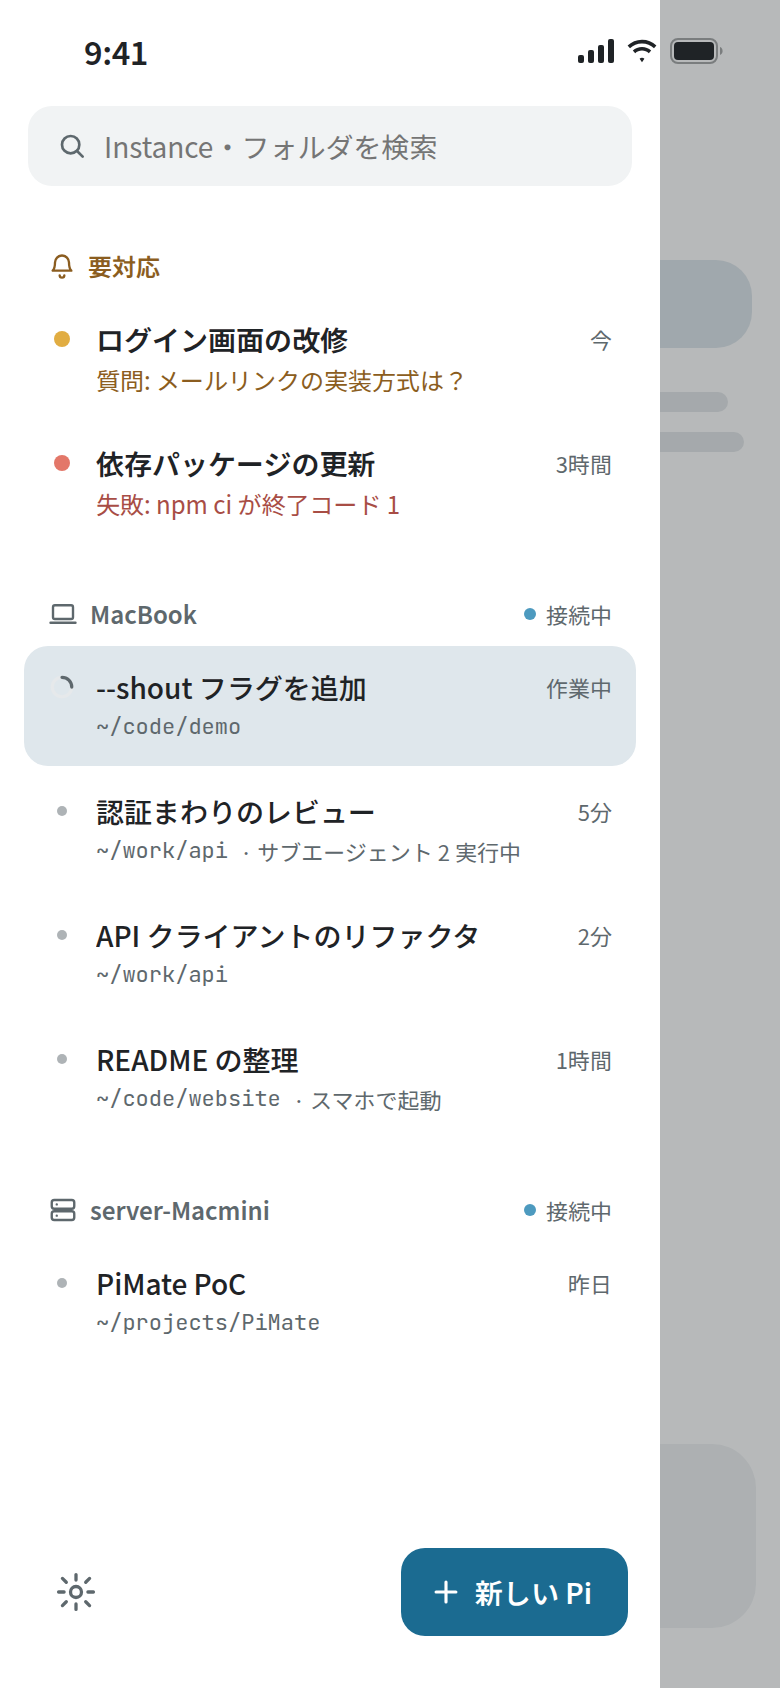
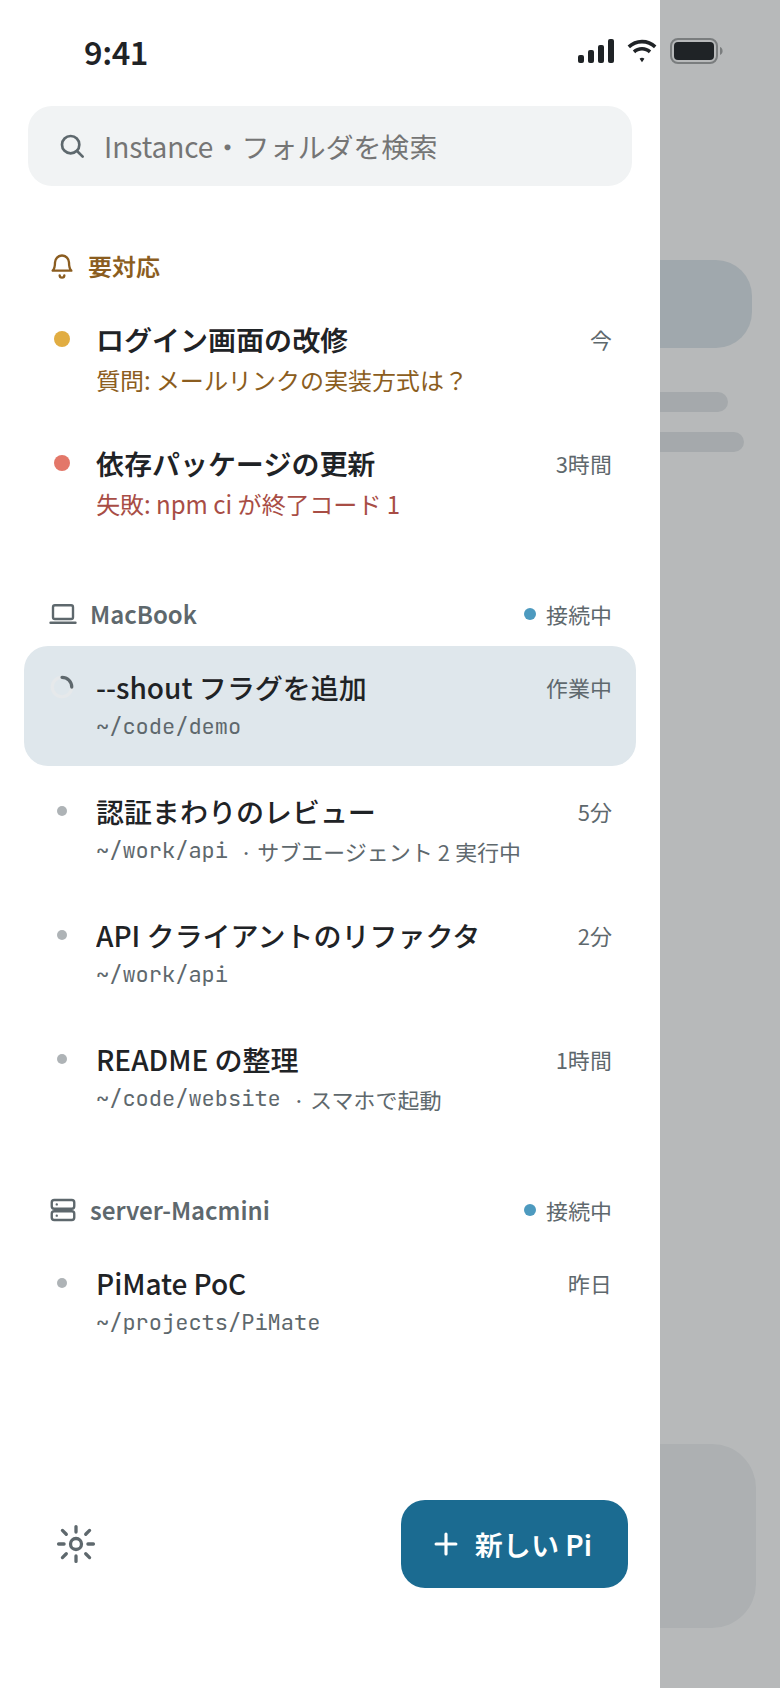
主ボタン・1行の入力欄・コマンド表示をカプセル型に戻し、ドロワー最下段を少し上げる
- radii.control を 9999（カプセル）に戻す。0.1.13 で角丸 12px にした要素がすべて戻る
- ドロワーの下余白を insets.bottom + 16 にして、最下段のボタンをジェスチャーバーから離す
- SPEC・apps/mobile/README の形のルールを更新（モックは別コミット）

Changed region(s): [[0.4923, 0.8626, 0.8308, 0.9858], [0.0615, 0.8934, 0.1231, 0.955]]

diff --git a/docs/design/html/Drawer.html b/docs/design/html/Drawer.html
@@ -27,7 +27,7 @@ html,body{margin:0;overflow:hidden}
     <div style="position: absolute; inset: 0; background: rgba(16, 24, 28, 0.30)"></div>
   </div>
 
-  <nav aria-label="Pi Instance" style="position: absolute; top: 0; left: 0; width: 330px; height: 844px; box-sizing: border-box; padding: 47px 12px 26px; display: flex; flex-direction: column; background: #FFFFFF">
+  <nav aria-label="Pi Instance" style="position: absolute; top: 0; left: 0; width: 330px; height: 844px; box-sizing: border-box; padding: 47px 12px 50px; display: flex; flex-direction: column; background: #FFFFFF">
     <div style="display: flex; align-items: center; gap: 6px; padding: 6px 2px 0">
       <label style="flex: 1; min-width: 0; height: 40px; display: flex; align-items: center; gap: 8px; padding: 0 14px; border-radius: 12px; background: #F1F3F4; color: #5E686D">
         <svg width="16" height="16" viewBox="0 0 24 24" aria-hidden="true" style="flex-shrink: 0; fill: none; stroke: currentColor; stroke-width: 2; stroke-linecap: round"><circle cx="11" cy="11" r="6.5"></circle><path d="M20 20l-4.2-4.2"></path></svg>

diff --git a/docs/design/mock/Drawer.dc.html b/docs/design/mock/Drawer.dc.html
@@ -32,7 +32,7 @@ html,body{margin:0;overflow:hidden}
     <div style="position: absolute; inset: 0; background: rgba(16, 24, 28, 0.30)"></div>
   </div>
 
-  <nav aria-label="Pi Instance" style="position: absolute; top: 0; left: 0; width: 330px; height: 844px; box-sizing: border-box; padding: 47px 12px 26px; display: flex; flex-direction: column; background: #FFFFFF">
+  <nav aria-label="Pi Instance" style="position: absolute; top: 0; left: 0; width: 330px; height: 844px; box-sizing: border-box; padding: 47px 12px 50px; display: flex; flex-direction: column; background: #FFFFFF">
     <div style="display: flex; align-items: center; gap: 6px; padding: 6px 2px 0">
       <label style="flex: 1; min-width: 0; height: 40px; display: flex; align-items: center; gap: 8px; padding: 0 14px; border-radius: 12px; background: #F1F3F4; color: #5E686D">
         <svg width="16" height="16" viewBox="0 0 24 24" aria-hidden="true" style="flex-shrink: 0; fill: none; stroke: currentColor; stroke-width: 2; stroke-linecap: round"><circle cx="11" cy="11" r="6.5"></circle><path d="M20 20l-4.2-4.2"></path></svg>

diff --git a/apps/mobile/src/theme/tokens.ts b/apps/mobile/src/theme/tokens.ts
@@ -165,8 +165,8 @@ export const radii = {
 	sheet: 16,
 	/** Code / tool output block. */
 	code: 10,
-	/** 主ボタン・1行の入力欄・コマンド表示: rounded rectangle (no capsules, Tokens.dc.html). */
-	control: 12,
+	/** 主ボタン・1行の入力欄・コマンド表示: capsule — single-line elements only (Tokens.dc.html). */
+	control: 9999,
 	/** Round icon buttons only (equal width and height, e.g. send, jump to latest). */
 	capsule: 9999,
 } as const;

diff --git a/apps/mobile/src/components/InstanceDrawer.tsx b/apps/mobile/src/components/InstanceDrawer.tsx
@@ -47,7 +47,7 @@ export function InstanceDrawer({ navigation }: DrawerContentComponentProps) {
 	};
 
 	return (
-		<View style={[styles.root, { paddingTop: insets.top, paddingBottom: Math.max(insets.bottom, 12) }]}>
+		<View style={[styles.root, { paddingTop: insets.top, paddingBottom: insets.bottom + 16 }]}>
 			<View style={styles.searchRow}>
 				<View style={styles.search}>
 					<SearchIcon />

diff --git a/apps/mobile/README.md b/apps/mobile/README.md
@@ -1,6 +1,6 @@
 # PiMate mobile
 
-Expo（SDK 57、expo-router）のアプリです。Android優先で作っています。見た目は [docs/design/](../../docs/design/README.md) のモックに合わせます。主ボタン・1行の入力欄・コマンド表示は角丸 12px で、カプセル型は使いません。設定の「表示」でテーマ（システム・ライト・ダーク）と文字サイズ（小・標準・大）を選べ、再起動なしで反映されます。文字サイズは OS の設定にも重ねて適用されます。起動時のスプラッシュだけは OS の明暗に従うため、OS と逆のテーマを選ぶと起動の一瞬だけ OS 側の色になります。ダークも色の役割は同じで、線や影ではなく面の濃淡で区切ります。本文は 15px です。
+Expo（SDK 57、expo-router）のアプリです。Android優先で作っています。見た目は [docs/design/](../../docs/design/README.md) のモックに合わせます。主ボタン・1行の入力欄・コマンド表示はカプセル型です。設定の「表示」でテーマ（システム・ライト・ダーク）と文字サイズ（小・標準・大）を選べ、再起動なしで反映されます。文字サイズは OS の設定にも重ねて適用されます。起動時のスプラッシュだけは OS の明暗に従うため、OS と逆のテーマを選ぶと起動の一瞬だけ OS 側の色になります。ダークも色の役割は同じで、線や影ではなく面の濃淡で区切ります。本文は 15px です。
 
 アイコン類は [icon kit](../../docs/design/icon-kit/README.md) の書き出し済み素材を `assets/brand/` にコピーして使います（正本はキット側）。Android はライト版の adaptive icon＋テーマアイコン用の単色、iOS は Light / Dark / Tinted。スプラッシュはアプリの背景色にマークを載せ、ライト / ダークで配色を切り替えます。通知は白いシルエット。アプリ内ではペアリングの最初の画面と設定のバージョン表示だけにマークを置きます。差し替えには APK の再ビルドが必要です（OTA では変わりません）。
 
